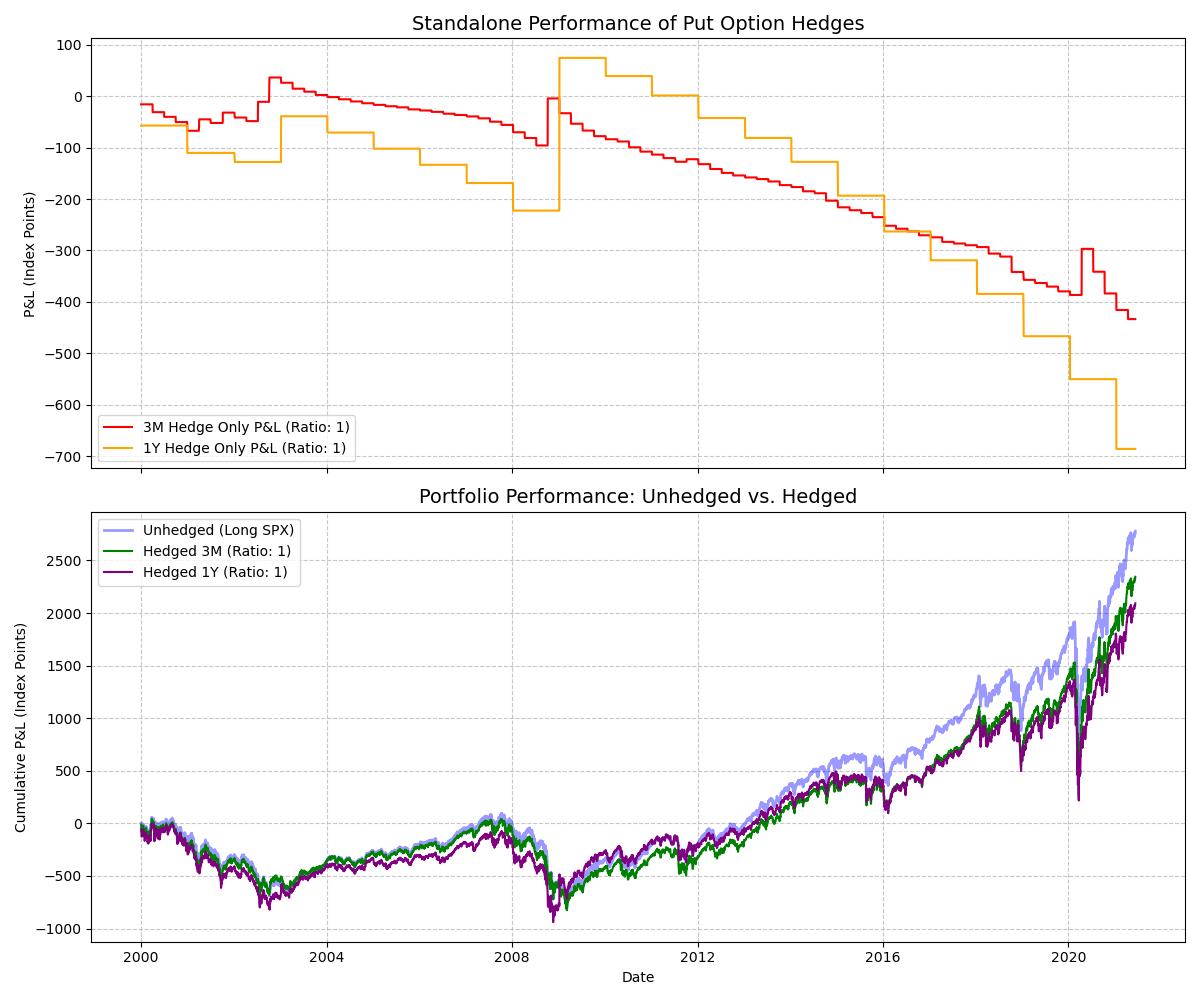
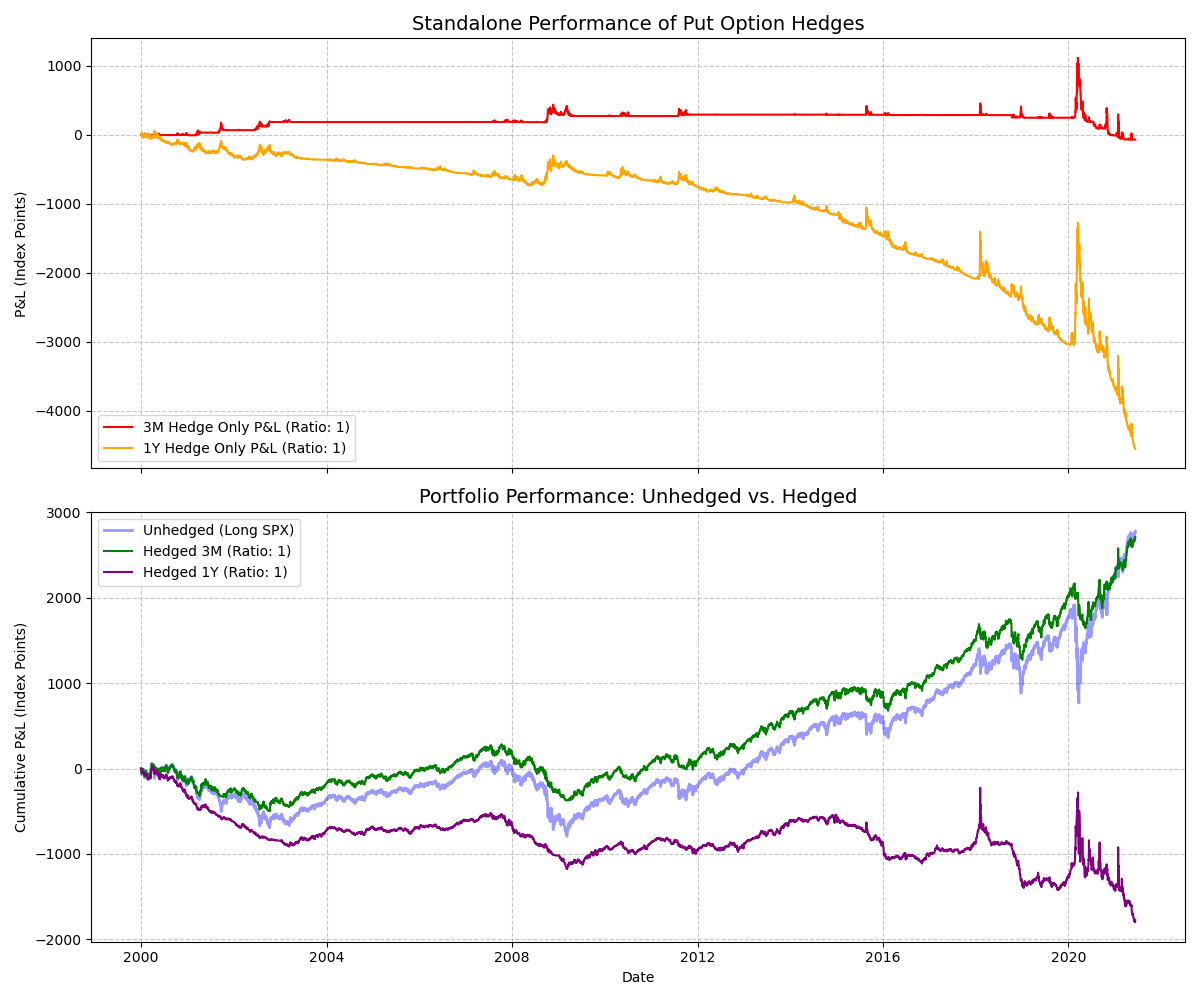
option before executed should have value

diff --git a/quant_strat_interview/q1_rolling_hedge.py b/quant_strat_interview/q1_rolling_hedge.py
@@ -1,37 +1,66 @@
 import pandas as pd
 import numpy as np
 import matplotlib.pyplot as plt
+from scipy.stats import norm
 
 # 1. Load your updated data
 df = pd.read_csv("quant_strat_interview/q1_pricing.csv", index_col='Date', parse_dates=True)
 
-# 2. Define the reusable backtesting function with hedge_ratio
-def calculate_hedge_pnl(df, price_col, roll_period, hedge_ratio=1.0):
+
+def bs_put_price(S, K, T, r, q, sigma):
+    """
+    Calculates the Black-Scholes European put price for a single day.
+    Returns intrinsic value if the option is at or past expiration.
+    """
+    if T <= 0:
+        return max(K - S, 0)
+        
+    d1 = (np.log(S / K) + (r - q + 0.5 * sigma**2) * T) / (sigma * np.sqrt(T))
+    d2 = d1 - sigma * np.sqrt(T)
+    
+    put_price = K * np.exp(-r * T) * norm.cdf(-d2) - S * np.exp(-q * T) * norm.cdf(-d1)
+    return put_price
+
+def calculate_hedge_pnl(df, vol_col, roll_period, r=0.01, q=0.0, hedge_ratio=1.0):
+    """
+    Calculates the P&L of a rolling put hedge with daily mark-to-market pricing,
+    utilizing an external Black-Scholes pricer.
+    """
     num_days = len(df)
     hedge_pnl = np.zeros(num_days)
-    current_cash = 0.0
+    realized_cash = 0.0  # Tracks our bank account (premiums paid and payoffs received)
     
     i = 0
     while i < num_days:
-        # Scale the cost of the option by the hedge ratio
-        premium_paid = df[price_col].iloc[i] * hedge_ratio
-        strike_price = df['Strike'].iloc[i] 
+        # 1. Lock in the option strike on the roll date
+        K = df['Strike'].iloc[i]
         
-        current_cash -= premium_paid
+        # Determine the exact expiration index
         expiration_idx = min(i + roll_period, num_days - 1)
         
-        # Fill the daily P&L flat until expiration
-        hedge_pnl[i:expiration_idx] = current_cash
+        # 2. Mark the active option to market every single day until expiration
+        for j in range(i, expiration_idx + 1):
+            # Calculate remaining time to maturity in years
+            T_years = (expiration_idx - j) / 365.0 
+            
+            S_j = df['SP'].iloc[j]
+            sigma_j = df[vol_col].iloc[j] / 100.0
+            
+            # Call the isolated BS function
+            current_opt_value = bs_put_price(S=S_j, K=K, T=T_years, r=r, q=q, sigma=sigma_j)
+            
+            # If j == i, we are buying the option today
+            if j == i:
+                premium_paid = current_opt_value * hedge_ratio
+                realized_cash -= premium_paid
+            
+            # Total P&L is our realized cash + the unrealized value of the active option
+            hedge_pnl[j] = realized_cash + (current_opt_value * hedge_ratio)
         
-        # Calculate exit
+        # 3. Handle expiration payoff and roll
         if expiration_idx < num_days - 1:
-            settlement_spx = df['SP'].iloc[expiration_idx]
-            
-            # Scale the payoff by the same hedge ratio
-            payoff = max(strike_price - settlement_spx, 0) * hedge_ratio
-            
-            current_cash += payoff
-            hedge_pnl[expiration_idx] = current_cash
+            payoff = max(K - df['SP'].iloc[expiration_idx], 0) * hedge_ratio
+            realized_cash += payoff
             
         i = expiration_idx
         if i == num_days - 1:
